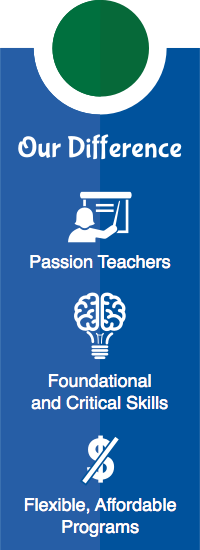
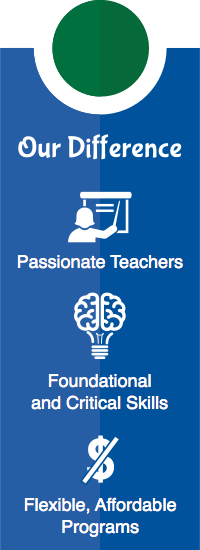
Fixed image typo

Changed region(s): [[0.06, 0.4636, 0.93, 0.4945]]

diff --git a/css/styles.css b/css/styles.css
@@ -9475,16 +9475,14 @@ p.form-label {
 
 /* line 732, ../_sass/styles.scss */
 #signup {
-  height: auto;
-  min-height: 100% !important;
   padding: 4em 0;
 }
-/* line 737, ../_sass/styles.scss */
+/* line 734, ../_sass/styles.scss */
 #signup .form-shaded {
   background-color: #00703e;
[1 lines of base64/hex data omitted]
 }
-/* line 741, ../_sass/styles.scss */
+/* line 738, ../_sass/styles.scss */
 #signup h4 {
   font-size: 16px;
   font-weight: bold;
@@ -9492,18 +9490,16 @@ p.form-label {
   padding: 0;
 }
 
-/* line 748, ../_sass/styles.scss */
+/* line 745, ../_sass/styles.scss */
 #makeup {
-  height: auto;
-  min-height: 100% !important;
   padding: 4em 0;
 }
-/* line 754, ../_sass/styles.scss */
+/* line 747, ../_sass/styles.scss */
 #makeup .form-shaded {
   background-color: #265ea6;
[1 lines of base64/hex data omitted]
 }
-/* line 758, ../_sass/styles.scss */
+/* line 751, ../_sass/styles.scss */
 #makeup h4 {
   font-size: 16px;
   font-weight: bold;
@@ -9514,19 +9510,19 @@ p.form-label {
 /* ---------------------------------- */
 /* Testimonial Section on multiple pages */
 /* ---------------------------------- */
-/* line 769, ../_sass/styles.scss */
+/* line 762, ../_sass/styles.scss */
 .testimonial-quote {
   margin: 0 auto;
   padding: 20px 0;
 }
 
-/* line 773, ../_sass/styles.scss */
+/* line 766, ../_sass/styles.scss */
 .testimonial-text-outer {
   padding-top: 10px;
 }
 
 @media (min-width: 768px) {
-  /* line 777, ../_sass/styles.scss */
+  /* line 770, ../_sass/styles.scss */
   .testimonial-text-outer {
     max-width: 600px;
     display: table;
@@ -9535,13 +9531,13 @@ p.form-label {
     padding-top: 0;
   }
 
-  /* line 784, ../_sass/styles.scss */
+  /* line 777, ../_sass/styles.scss */
   .testimonial-text-inner {
     display: table-cell;
     vertical-align: middle;
   }
 
-  /* line 788, ../_sass/styles.scss */
+  /* line 781, ../_sass/styles.scss */
   .testimonial-text-outer:before {
     content: '\201C';
     color: #265ea6;
@@ -9551,7 +9547,7 @@ p.form-label {
     padding-right: 10px;
   }
 
-  /* line 796, ../_sass/styles.scss */
+  /* line 789, ../_sass/styles.scss */
   .testimonial-text-outer:after {
     content: '\201D';
     color: #265ea6;
@@ -9561,7 +9557,7 @@ p.form-label {
     font-family: Times New Roman;
   }
 }
-/* line 805, ../_sass/styles.scss */
+/* line 798, ../_sass/styles.scss */
 .testimonial-name {
   font-size: 13px;
   text-align: right;
@@ -9571,7 +9567,7 @@ p.form-label {
 /* ---------------------------------- */
 /* Find a location section on multiple pages */
 /* ---------------------------------- */
-/* line 814, ../_sass/styles.scss */
+/* line 807, ../_sass/styles.scss */
 .location-finder {
   margin: 5em 0;
   text-align: center;
@@ -9580,7 +9576,7 @@ p.form-label {
 /* ---------------------------------- */
 /* General Button Styling */
 /* ---------------------------------- */
-/* line 821, ../_sass/styles.scss */
+/* line 814, ../_sass/styles.scss */
 button {
   -webkit-border-radius: 6px;
   -moz-border-radius: 6px;
@@ -9589,26 +9585,26 @@ button {
   border-radius: 6px;
 }
 
-/* line 828, ../_sass/styles.scss */
+/* line 821, ../_sass/styles.scss */
 .btn-grow {
   -webkit-transform: scale(1);
   -webkit-transition: all .2s ease-in-out;
 }
 
-/* line 832, ../_sass/styles.scss */
+/* line 825, ../_sass/styles.scss */
 .btn-grow:hover {
   -webkit-transform: scale(1.05);
   -webkit-transition: all .2s ease-in-out;
 }
 
-/* line 836, ../_sass/styles.scss */
+/* line 829, ../_sass/styles.scss */
 .btn-dark {
   color: #fff;
   background-color: #006838;
   border-color: transparent;
 }
 
-/* line 844, ../_sass/styles.scss */
+/* line 837, ../_sass/styles.scss */
 .btn-dark:hover,
 .btn-dark:focus,
 .btn-dark:active,
@@ -9618,14 +9614,14 @@ button {
   border-color: transparent;
 }
 
-/* line 849, ../_sass/styles.scss */
+/* line 842, ../_sass/styles.scss */
 .btn-light {
   color: #006838;
   background-color: #fff;
   border-color: #006838;
 }
 
-/* line 857, ../_sass/styles.scss */
+/* line 850, ../_sass/styles.scss */
 .btn-light:hover,
 .btn-light:focus,
 .btn-light:active,
@@ -9638,7 +9634,7 @@ button {
 /* ---------------------------------- */
 /* Privacy Policy */
 /* ---------------------------------- */
-/* line 865, ../_sass/styles.scss */
+/* line 858, ../_sass/styles.scss */
 .contact-info {
   padding-left: 50px;
   padding-bottom: 25px;
@@ -9647,7 +9643,7 @@ button {
 /* ---------------------------------- */
 /* Footer */
 /* ---------------------------------- */
-/* line 873, ../_sass/styles.scss */
+/* line 866, ../_sass/styles.scss */
 footer {
   background-size: cover;
   background-repeat: no-repeat;
@@ -9659,41 +9655,41 @@ footer {
   padding: 15px 0px 15px 0px;
 }
 
-/* line 883, ../_sass/styles.scss */
+/* line 876, ../_sass/styles.scss */
 footer .col-md-6 {
   padding: 0;
   min-height: 75px;
 }
 
-/* line 887, ../_sass/styles.scss */
+/* line 880, ../_sass/styles.scss */
 .footer-legal {
   text-align: center;
   font-size: 9px;
 }
 
-/* line 891, ../_sass/styles.scss */
+/* line 884, ../_sass/styles.scss */
 .footer-links {
   font-size: 16px;
   text-align: center;
   padding: 15px 0 5px 0;
   text-shadow: 0 1px 1px rgba(0, 0, 0, 0.25);
 }
-/* line 896, ../_sass/styles.scss */
+/* line 889, ../_sass/styles.scss */
 .footer-links a {
   color: #fff;
   padding: 0 8px 0 0;
 }
-/* line 900, ../_sass/styles.scss */
+/* line 893, ../_sass/styles.scss */
 .footer-links a:hover {
   text-decoration: none;
 }
 
-/* line 902, ../_sass/styles.scss */
+/* line 895, ../_sass/styles.scss */
 .footer-buttons {
   margin: auto;
   margin-bottom: 20px;
 }
-/* line 905, ../_sass/styles.scss */
+/* line 898, ../_sass/styles.scss */
 .footer-buttons button:hover {
   border-color: #006838;
   background: #fff;

diff --git a/_sass/styles.scss b/_sass/styles.scss
@@ -730,9 +730,6 @@ p.form-label {
 }
 
 #signup {
-  //background-color: #f5f7f9;
-  height: auto;
-  min-height: 100% !important;
   padding: 4em 0;
   .form-shaded {
     background-color: #00703e;
@@ -746,10 +743,6 @@ p.form-label {
   }
 }
 #makeup {
-  //border-top: 1px solid $gray-lighter;
-  //background-color: #F4F7F2;
-  height: auto;
-  min-height: 100% !important;
   padding: 4em 0;
   .form-shaded {
     background-color: #265ea6;
